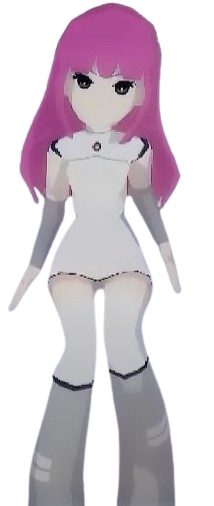
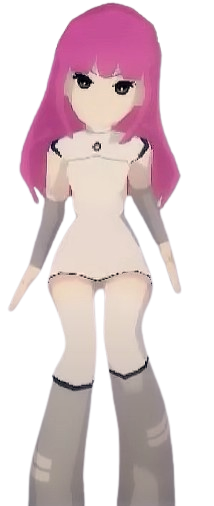
flair and creature animations

diff --git a/src/App.css b/src/App.css
@@ -104,9 +104,10 @@ ul {
   max-width: 1100px;
   margin: auto;
   position: relative;
-  box-sizing: border-box;
+  /* box-sizing: border-box; */
   padding-top: 4%;
   padding-bottom: 5%;
+  padding-left: clamp(0px, 3%, 37px);
   background-repeat: no-repeat;
   background-size: cover;
   background-position: center;
@@ -119,6 +120,7 @@ ul {
   position: absolute;
   /* top: 140px; */
   padding-top: 1.5%;
+  padding-left: 3%;
   left: 0;
   right: 0;
   /* bottom: 0; */
@@ -128,7 +130,7 @@ ul {
   margin: auto;
   background-blend-mode: luminosity;
   opacity: 0.85;
-  filter: drop-shadow(0px 0px 10.1px rgba(255, 255, 255, 0.5));
+  filter: var(--glow);
 }
 
 .header {
@@ -168,9 +170,9 @@ ul {
 }
 
 .content {
-  height: 100%;
+  height: 75%;
   position: relative;
-  margin-left: 1.5%;
+  /* margin-left: 1.5%; */
   margin-top: 8%;
   z-index: 1;
 }
@@ -182,11 +184,21 @@ ul {
   margin-left: 1.8%;
 }
 
+.side-section-large > img {
+  position: relative;
+  animation: floatUpAndDownShort 2s infinite alternate ease-in-out;
+}
+
+.creature-headshot > img {
+  position: relative;
+  animation: sideShift 5s infinite alternate ease-in-out;
+}
+
 .creature-headshots {
   position: absolute;
   /* top: -200px; */
   right: 0;
-  top: clamp(-180px, -15vw, 100px);
+  top: clamp(-170px, -15vw, 100px);
   align-self: end;
   justify-self: end;
   gap: 5%;
@@ -195,8 +207,8 @@ ul {
 .creature-headshot {
   /* height: 175px;
   width: 175px; */
-  height: clamp(1em, 10vw, 120px);
-  width: clamp(1em, 10vw, 120px);
+  height: clamp(1em, 10vw, 110px);
+  width: clamp(1em, 10vw, 110px);
   border: 1px solid var(--ui-primary-dark);
   border-radius: var(--border-radius-med);
 }
@@ -226,7 +238,7 @@ ul {
   position: relative;
   top: clamp(-50px, -4vw, 10px);
   width: 18.5%;
-  max-height: clamp(100px, 36vw, 100%);
+  max-height: clamp(100px, 35vw, 100%);
   background: rgba(57, 156, 227, 0.9);
   border-radius: var(--border-radius-med);
   filter: drop-shadow(0px 0px 10.1px rgba(255, 255, 255, 0.5));
@@ -246,6 +258,15 @@ ul {
   animation: floatUpAndDown 8s infinite alternate ease-in-out;
 }
 
+@keyframes sideShift {
+  0%,
+  100% {
+    left: 0;
+  }
+  50% {
+    left: -5%;
+  }
+}
 @keyframes floatUpAndDown {
   0%,
   100% {
@@ -253,6 +274,15 @@ ul {
   }
   50% {
     bottom: -5%;
+  }
+}
+@keyframes floatUpAndDownShort {
+  0%,
+  100% {
+    bottom: 0;
+  }
+  50% {
+    bottom: -2%;
   }
 }
 
@@ -276,7 +306,7 @@ ul {
 }
 
 .sn-label {
-  font-size: clamp(5px, 2.2vw, 22px);
+  font-size: clamp(5px, 2vw, 22px);
   font-weight: 600;
 }
 
@@ -292,7 +322,7 @@ ul {
 .nav-option {
   font-family: Oxanium;
   position: relative;
-  height: clamp(1rem, 4vw, 2.6rem);
+  height: clamp(0.7rem, 3.7vw, 2.6rem);
   width: 59%;
   margin-bottom: 3%;
   font-size: clamp(1rem, 3vw, 2rem);
@@ -387,4 +417,65 @@ ul {
   100% {
     background-position: 0% 50%;
   }
+}
+
+.flair-snake {
+  position: absolute;
+  left: 0.1%;
+  top: -26.5%;
+  width: 3.3%;
+  filter: drop-shadow(0px 0px 10.1px rgba(255, 255, 255, 0.5));
+}
+
+.flair-a {
+  position: absolute;
+  left: 0%;
+  bottom: 1.4%;
+  width: 3.5%;
+  filter: drop-shadow(0px 0px 10.1px rgba(255, 255, 255, 0.5));
+}
+
+.flair-bottom-barcode {
+  position: absolute;
+  left: 52.3%;
+  bottom: 1.6%;
+  width: 22%;
+  filter: drop-shadow(0px 0px 10.1px rgba(255, 255, 255, 0.5));
+}
+.flair-side-barcode {
+  position: absolute;
+  right: -1.4%;
+  bottom: 96%;
+  width: 16%;
+  transform: rotate(-90deg);
+  filter: drop-shadow(0px 0px 10.1px rgba(255, 255, 255, 0.5));
+}
+.flair-menu {
+  position: absolute;
+  left: 4.6%;
+  top: -30.6%;
+  width: 25%;
+  filter: drop-shadow(0px 0px 10.1px rgba(255, 255, 255, 0.5));
+}
+
+.flair-settings-barcode {
+  position: absolute;
+  left: 41%;
+  top: 28%;
+  width: 7%;
+  filter: drop-shadow(0px 0px 10.1px rgba(255, 255, 255, 0.5));
+}
+
+.flair-usa {
+  position: absolute;
+  right: 8%;
+  bottom: 15%;
+  width: 4%;
+}
+
+.flair-a1 {
+  position: absolute;
+  right: 6.5%;
+  top: -41%;
+  width: 3%;
 }

diff --git a/src/App.tsx b/src/App.tsx
@@ -3,9 +3,9 @@ import "./App.css";
 import logoColon from "/images/Logo-colon.svg";
 import logoTitle from "/images/LogoTitle.svg";
 import background from "/images/ui-background.svg";
-import cloudCreatures from "/images/cloud-creatures.png";
-import bbHeadshot from "/images/bb-headshot.png";
-import ccHeadshot from "/images/cc-headshot.png";
+import cloudCreatures from "/images/cloud-creatures-bg-bright.png";
+import bbHeadshot from "/images/bb-headshot-bg-bright.png";
+import ccHeadshot from "/images/cc-headshot-bg-bright.png";
 
 import { useEffect, useState } from "react";
 import ReactPlayer from "react-player/youtube";
@@ -20,6 +20,14 @@ import Games from "./components/Games";
 import mrWashee from "/images/Mr._Washee_Washee.png";
 import girl1 from "/images/girl1.png"
 import girl2 from "/images/girl2.png"
+
+import SnakeFlair from "/images/SnakeFlair.svg";
+import AFlair from "/images/AFlair.svg";
+import Barcode from "/images/Memory Card barcode.svg";
+import MenuFlair from "/images/MenuHeadFlair.svg";
+import settingsBarcode from "/images/settingsBarcode.svg";
+import usa from "/images/USA.svg";
+import A1 from "/images/A1.svg";
 
 function App() {
   const { playerRef, showVideo, playing } = useVideoPlayer();
@@ -118,6 +126,7 @@ function App() {
             >
               SETTINGS
             </li>
+            <img src={settingsBarcode} className="flair-settings-barcode"/>
             <li
               className={`nav-option ${
                 mode == "memory" && "selected"
@@ -128,7 +137,7 @@ function App() {
             </li>
             <li
               className={`nav-option ${mode == "notepad" && "selected"}`}
-              onClick={() => handleMenuSelect("notepad", "Leave yourself a note, I'll remember it for you")}
+              onClick={() => handleMenuSelect("notepad", "Leave yourself a note, I'll remember it for you!")}
             >
               NOTEPAD
             </li>
@@ -167,6 +176,14 @@ function App() {
             {mode == "credits" ? <Credits />: ""}
           </div>
         </div>
+        <img src={SnakeFlair} className="flair-snake"/>
+      <img src={AFlair} className="flair-a"/>
+      <img src={Barcode} className="flair-bottom-barcode"/>
+      <img src={Barcode} className="flair-side-barcode"/>
+      <img src={A1} className="flair-a1"/>
+      
+      <img src={usa} className="flair-usa"/>
+      <img src={MenuFlair} className="flair-menu"/>
       </div>
       <MediaControl />
       

diff --git a/src/components/Notepad.tsx b/src/components/Notepad.tsx
@@ -11,7 +11,7 @@ export default function Notepad({note, setNote}: {note:string, setNote: (value:s
         <textarea 
           className='note-input' 
           value={note}
-          placeholder='Leave a note!'
+          placeholder='Click here to leave a note!'
           onChange={(e) => setNote(e.target.value)}
         />
       </div>

diff --git a/src/index.css b/src/index.css
@@ -21,6 +21,8 @@
   --ui-hightlight-dark: rgba(143, 143, 143, 0.40);
   --border-radius-med: clamp(5px, 2.7vw, 30px);
   --border-radius-small: clamp(1px, 0.4vw, 5px);
+  --height-28vw: clamp(1px,28vw, 313px);
+  --glow: drop-shadow(0px 0px 10.1px rgba(255, 255, 255, 0.5));
 }
 
 

diff --git a/src/components/notepad.css b/src/components/notepad.css
@@ -38,7 +38,7 @@
   flex-direction: column;
   height: 80%;
   width: 100%;
-  max-height: 30vw;
+  max-height: var(--height-28vw);
 }
 
 .section-container {
